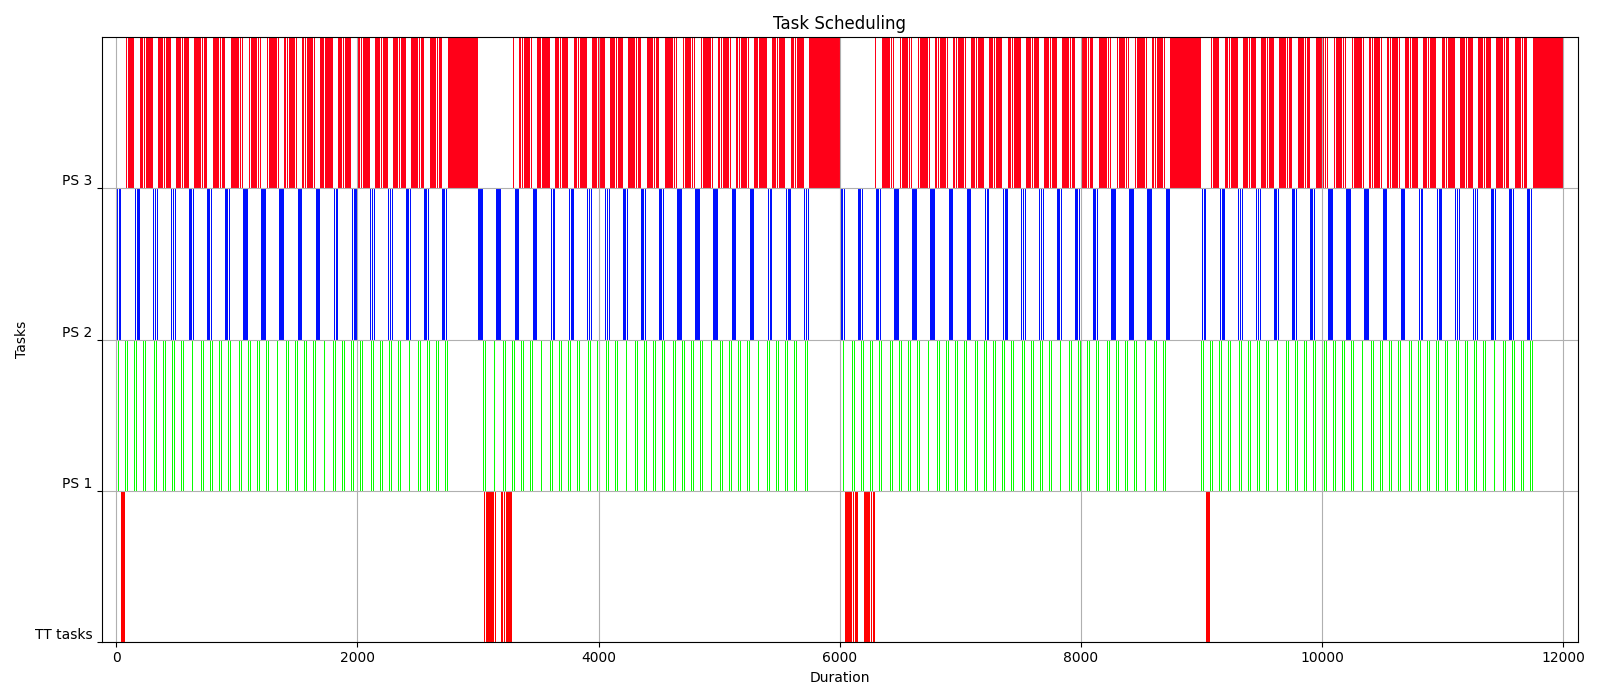
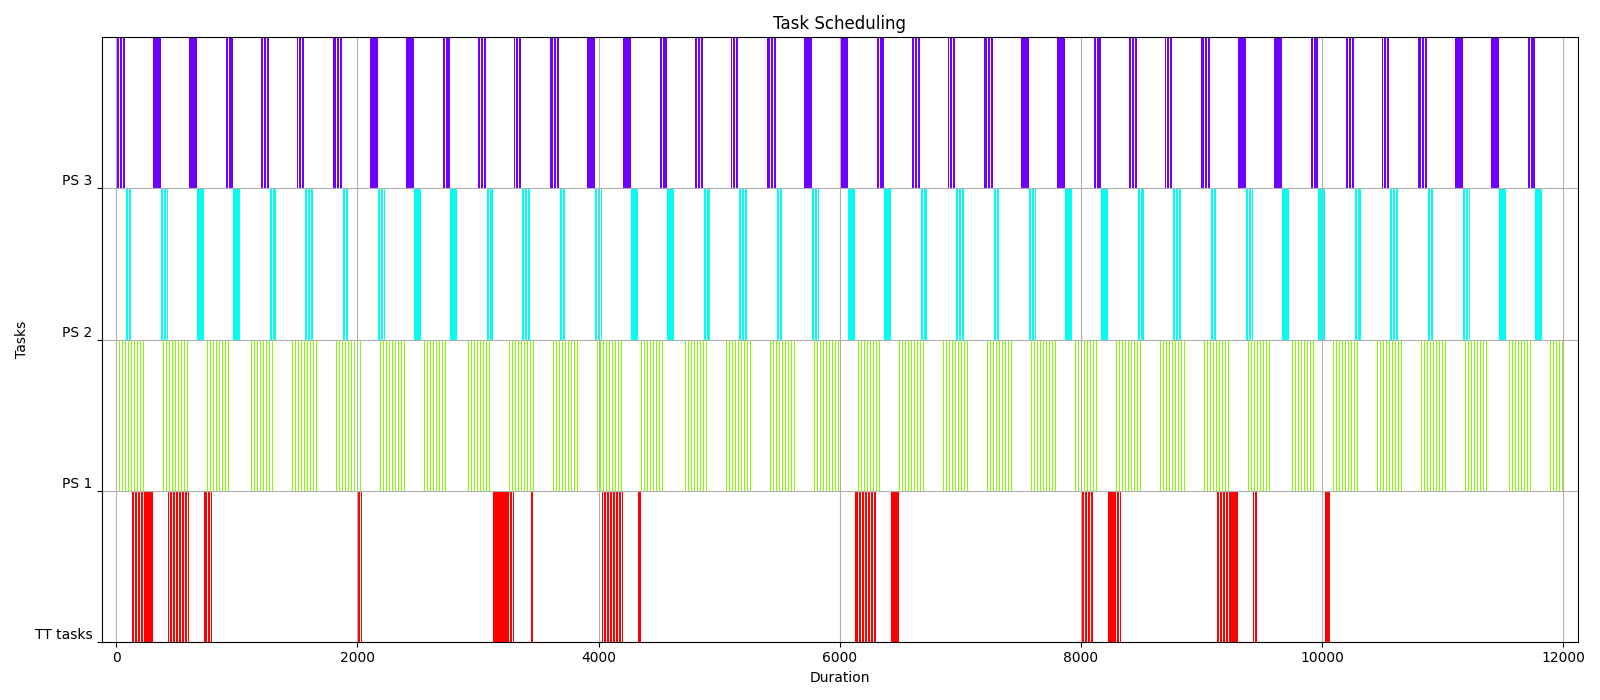
penalty + temp

Changed region(s): [[0.0625, 0.03, 1.0, 0.93]]

diff --git a/libraries/simulationAnealing.py b/libraries/simulationAnealing.py
@@ -69,6 +69,24 @@ class SimulatedAnnealing:
         # can add more termination criteria
         return self.currTemp <= self.finalTemp or self.currIter >= self.maxIter or self.currCost < self.toll
 
+    def plotTemperature(self):
+        iterations = list(range(int(self.maxIter/self.currIterationPerTemp)+1))
+        temperatures = [self.currTemp*self.alpha**i for i in iterations]
+        differences = [0.001, 0.01, 0.1, 1.0]
+        for d in differences:
+            metropolis = [np.exp(-d/t) for t in temperatures]
+            # plot iterations vs metropolis
+            label = 'diff=%.3f' % d
+            plt.plot(iterations, metropolis, marker='x', label=label)
+        # inalize plot
+        plt.xlabel('Iteration')
+        plt.ylabel('Metropolis Criterion')
+        #plt.ylim((0.0001, 1))
+        #plt.yscale("log")
+        plt.grid()
+        plt.legend()
+        plt.show()
+
     def initializeSolution(self):
         max_sep = max([task.separation for task in self.ETtasks])
         init_ps = []#[(300, 1000, 1000)]*max_sep   #[(1070, 2000, 1580), (200, 2000, 1470), (100, 1000, 1000)]
@@ -113,6 +131,7 @@ class SimulatedAnnealing:
         fig, ax = plt.subplots()
         #ax.plot(self.datalog["bins"], self.datalog["cost"])
         ax.plot(self.datalog["accepted_bins"], [self.datalog["costs"][i] for i in self.datalog["accepted_bins"]])#, color="red", marker="x")
+        ax.set_ylim((0, 3))
         ax.grid()
         ax.set_xlabel("Iterations")
         ax.set_ylabel("Cost")
@@ -137,38 +156,39 @@ class SimulatedAnnealing:
             return random.random() < math.exp(-cost / self.currTemp)
         return False
 
-    def computeCost(self, solution, params=["wcrt_tt", "wcrt_et"], weights=[0.5, 0.5]):
+    def computeCost(self, solution, weights=[0.5, 0.5]):
         assert sum(weights) == 1.0
 
-        wcrt = []
+        #EDP
+        et_schedulable, et_wcrt, et_penalty = True, [], 0
         for ps in solution:
-            wcrt = wcrt + EDP(ps)[1]
+            schedulable, WCRT, penalty = EDP(ps)
+            et_schedulable = et_schedulable and schedulable
+            et_wcrt = et_wcrt + WCRT
+            et_penalty += penalty
+        et_penalty /= len(solution)
 
-        params_dict = {
-            "wcrt_tt": np.mean(EDF(self.TTtasks + solution)[2]),
-            "wcrt_et": np.mean(wcrt),
-            "duration": max([ps.duration for ps in solution]),
-        }
-        cost = 0 if self.isValidNeighbor(solution) else 1
+        #EDF
+        tt_schedulable, __, tt_wcrt, tt_penalty = EDF(self.TTtasks + solution)
 
-        for w, val in zip(weights, params):
-            cost += w * params_dict[val] / self.hyperperiod
+        cost = 0 if et_schedulable and tt_schedulable else 1 + 0.5 * et_penalty + 0.5 * tt_penalty
+        for w, c in zip(weights, [np.mean(et_wcrt), np.mean(tt_wcrt)]):
+            cost += w * c / self.hyperperiod
         return cost
 
     def neighborOperator(self, center):
         def getrandomneighbor():
             new_center = []
             for ps in center:
-                new_duration = self.clamp(ps.duration + random.randint(-10, 10) * 10, 1, self.hyperperiod)
                 new_period = self.period_divisors[self.clamp(self.period_divisors.index(ps.period) + random.choice([-1, 0, 1]), 0, len(self.period_divisors)-1)]
-                new_deadline = self.clamp(ps.deadline + random.randint(-10, 10) * 10, 1, self.hyperperiod)#self.period_divisors[self.period_divisors.index(ps.deadline) + random.choice([-1, 0, 1])]
+                new_duration = self.clamp(ps.duration + random.randint(-10, 10) * 10, 1, new_period)
+                new_deadline = self.clamp(ps.deadline + random.randint(-10, 10) * 10, new_duration, new_period)
                 new_center.append(PollingServer(ps.name, new_duration, new_period, new_deadline, ps.tasks, ps.separation))
             return new_center
 
         neighbor = getrandomneighbor()
-        while not self.isSatisfyingConstraints(neighbor):
-            neighbor = getrandomneighbor()
-
+        #while not self.isSatisfyingConstraints(neighbor):
+        #    neighbor = getrandomneighbor()
         return neighbor
 
     def isSatisfyingConstraints(self, neighbor) -> bool:
@@ -218,8 +238,9 @@ if __name__ == "__main__":
     TT, ET = dl.loadFile()
 
 
-    """
-    sa = SimulatedAnnealing(TT, ET)
+    #"""
+    sa = SimulatedAnnealing(TT, ET, maxiter=1000)
+    #sa.plotTemperature()
     sa.printSolution()
 
     if False:
@@ -238,10 +259,12 @@ if __name__ == "__main__":
     sa = msa.run()
     sa.printSolution()
 
-    schedulable_TT, timetable, wcrt_TT = EDF(TT + sa.solution)
+    """
+
+    schedulable_TT, timetable, wcrt_TT, __ = EDF(TT + sa.solution)
     print(wcrt_TT)
     for ps in sa.solution:
-        schedulable_ET, wcrt_ET = EDP(ps)
+        schedulable_ET, wcrt_ET, __ = EDP(ps)
         print(wcrt_ET)
 
     sa.printSolution()

diff --git a/libraries/algorithms.py b/libraries/algorithms.py
@@ -13,10 +13,13 @@ def EDF(tasks):
     durations = [obj.duration for obj in tasks] #durations
     deadlines = [obj.deadline for obj in tasks] #deadlines
 
+    penalty = [0] * len(tasks)
+
     while t < T:
         for i, task in enumerate(tasks):
             if durations[i] > 0 and deadlines[i] <= t:
-                wcrt[i] = T-releases[i]
+                wcrt[i] = max(wcrt[i], T-releases[i])
+                penalty[i] = max(penalty[i], T-releases[i])
                 schedulable = False
             if t % task.period == 0:
                 releases[i] = t
@@ -35,10 +38,11 @@ def EDF(tasks):
 
     if any(v > 0 for v in durations):
         for idx in [i for i, response in enumerate(wcrt) if response == -1]:
-            wcrt[idx] = T-releases[idx]
+            wcrt[idx] = max(wcrt[idx], T-releases[idx])
+            penalty[idx] = max(penalty[idx], T-releases[idx])
             schedulable = False
         
-    return schedulable, timetable, wcrt
+    return schedulable, timetable, wcrt, sum(penalty)/(T*len(tasks))
 
 
 def EDP(ps: PollingServer):
@@ -48,6 +52,8 @@ def EDP(ps: PollingServer):
     T = lcm(*[obj.period for obj in ps.tasks])
     WCRT = [T]*len(ps.tasks)
     schedulable = True
+
+    penalty = 0
 
     for i, ETtask1 in enumerate(ps.tasks):
         t = 0
@@ -64,8 +70,10 @@ def EDP(ps: PollingServer):
             t += 1
 
         if WCRT[i] > ETtask1.deadline:
+            penalty += WCRT[i] - ETtask1.deadline
             schedulable = False
-    return schedulable, WCRT
+
+    return schedulable, WCRT, penalty/T
 
 if __name__ == "__main__":
     path = "./test_cases/taskset_small.csv"
@@ -78,6 +86,6 @@ if __name__ == "__main__":
         budget, period, deadline = params[idx]
         init_ps.append(PollingServer("Polling Server", budget, period, deadline, tasks, separation=sep))
 
-    print([EDP(ps) for ps in init_ps])
-    schedulable, timetable, wcrt = EDF(TT + init_ps)
-    print(schedulable, wcrt)
+    print("EDP", [EDP(ps) for ps in init_ps])
+    schedulable, timetable, wcrt, penalty = EDF(TT + init_ps)
+    print("EDF", schedulable, wcrt, penalty)
